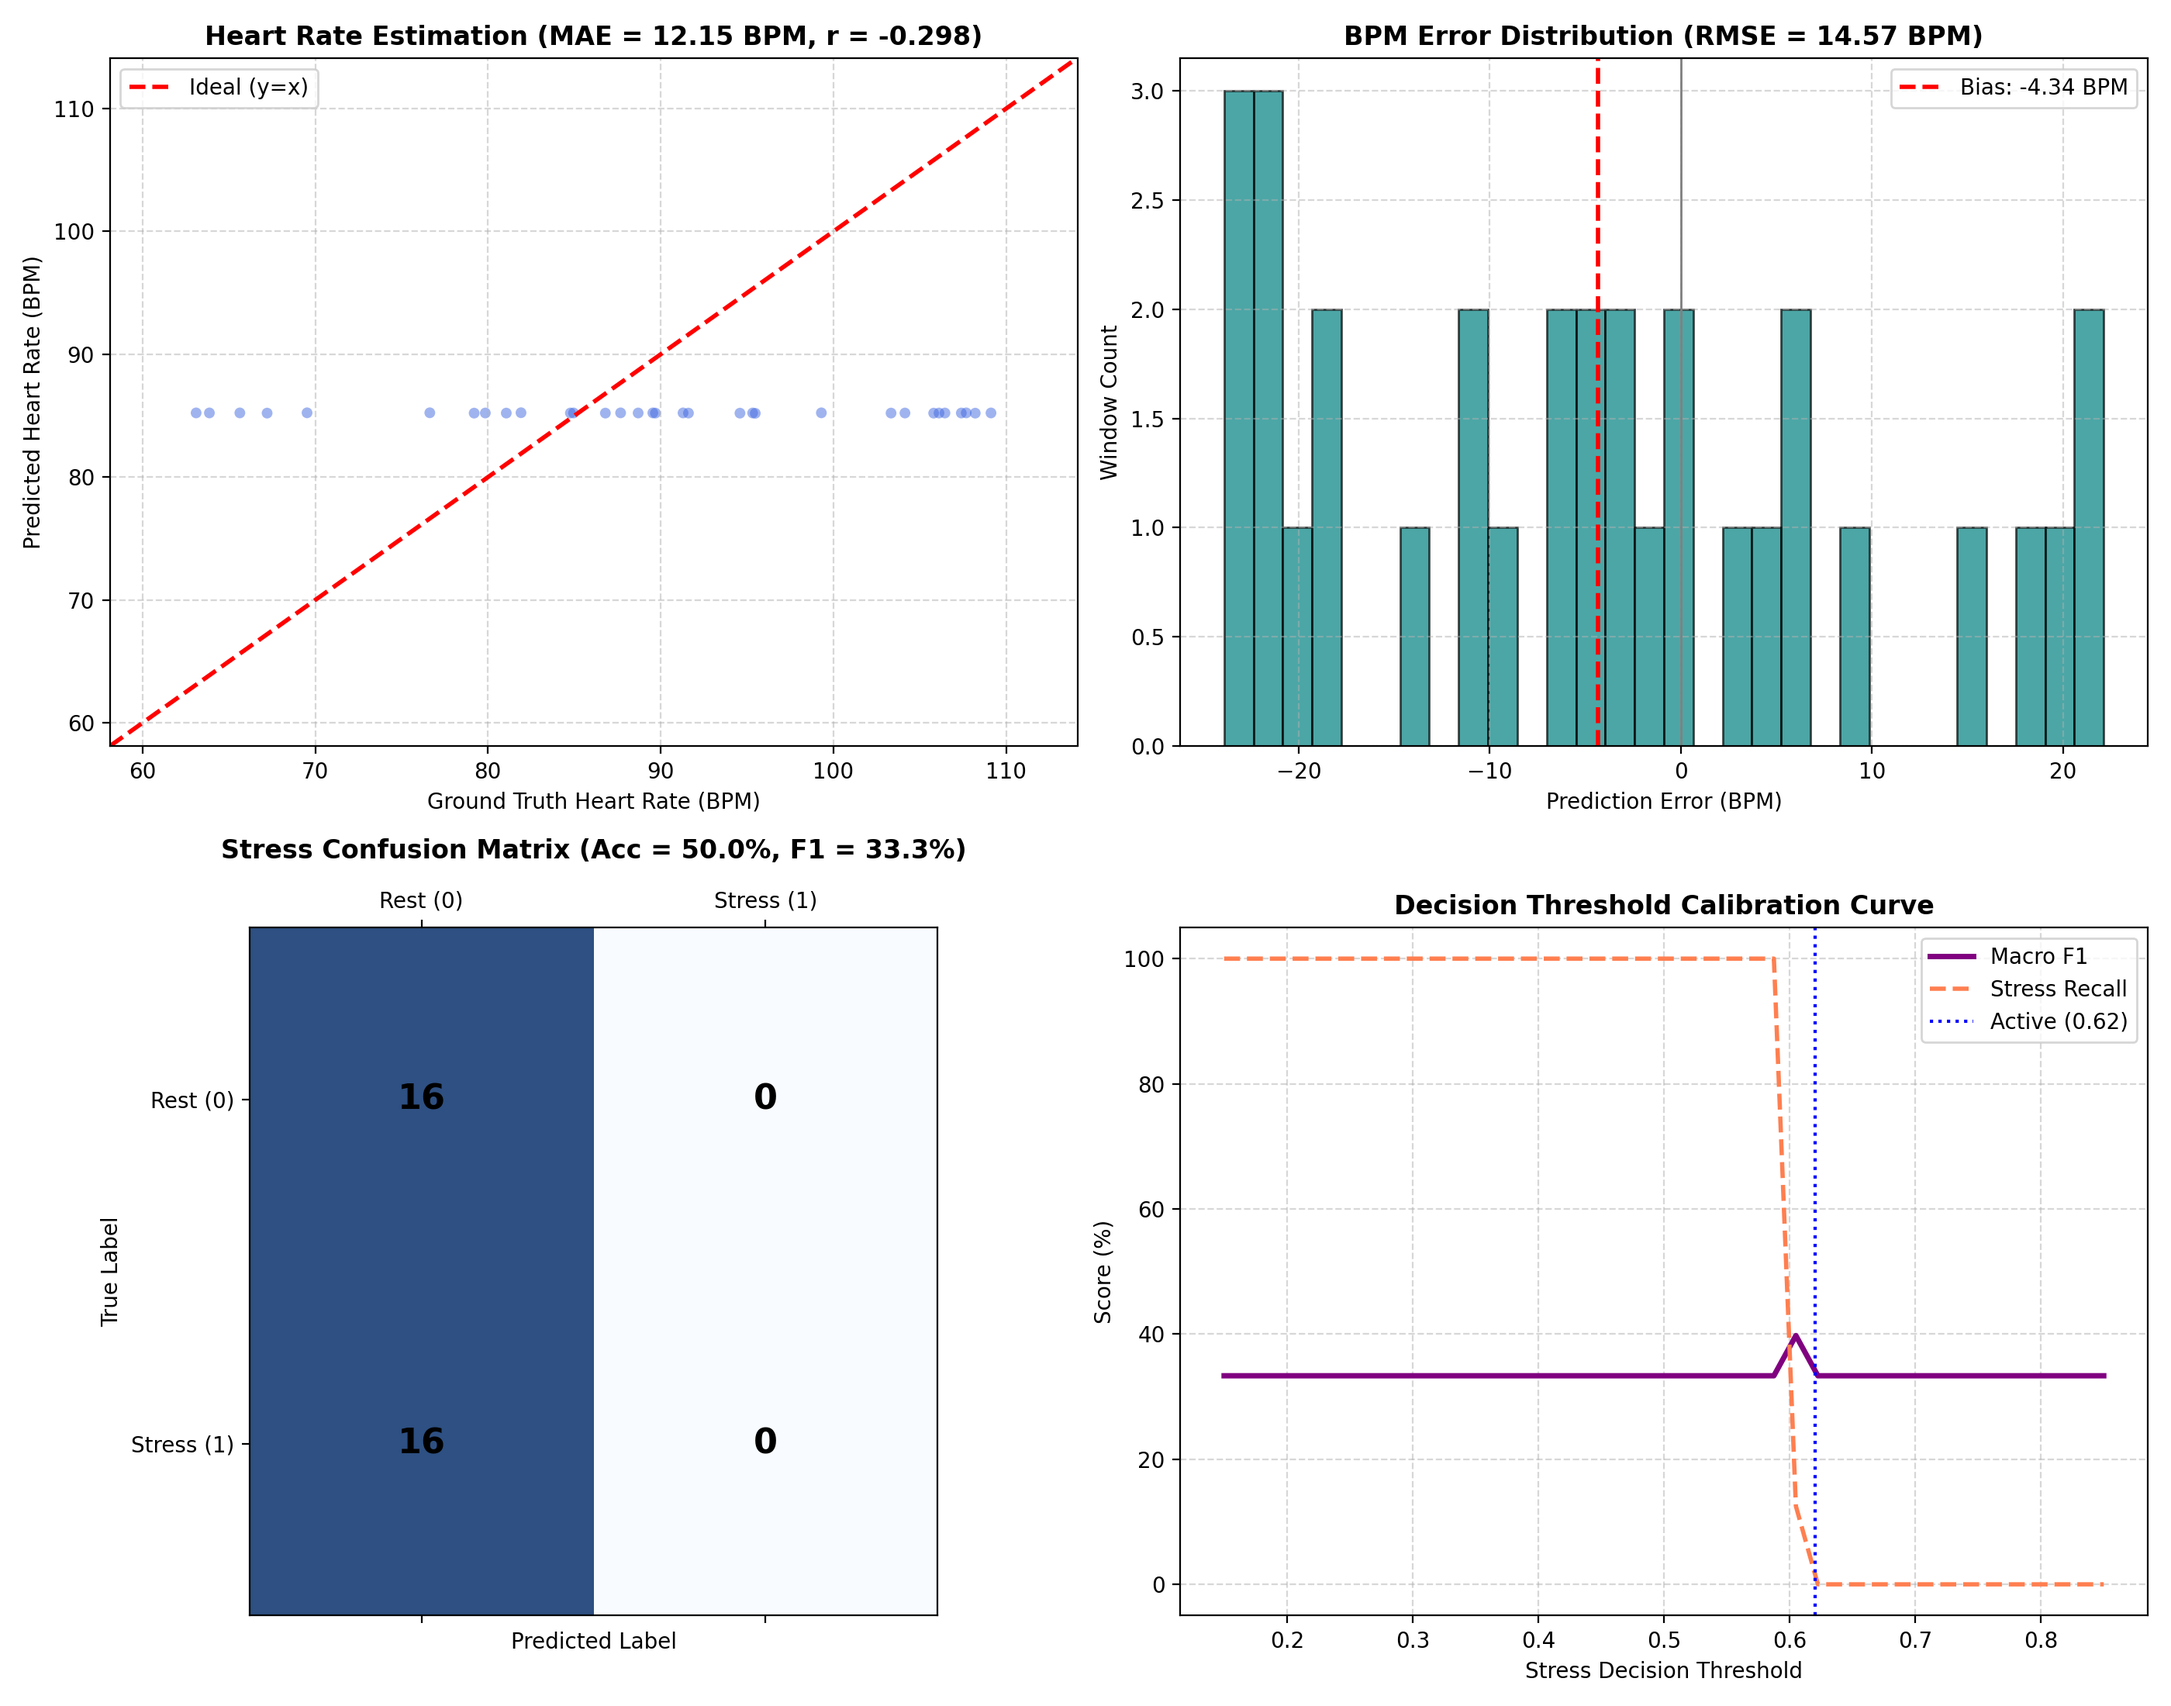
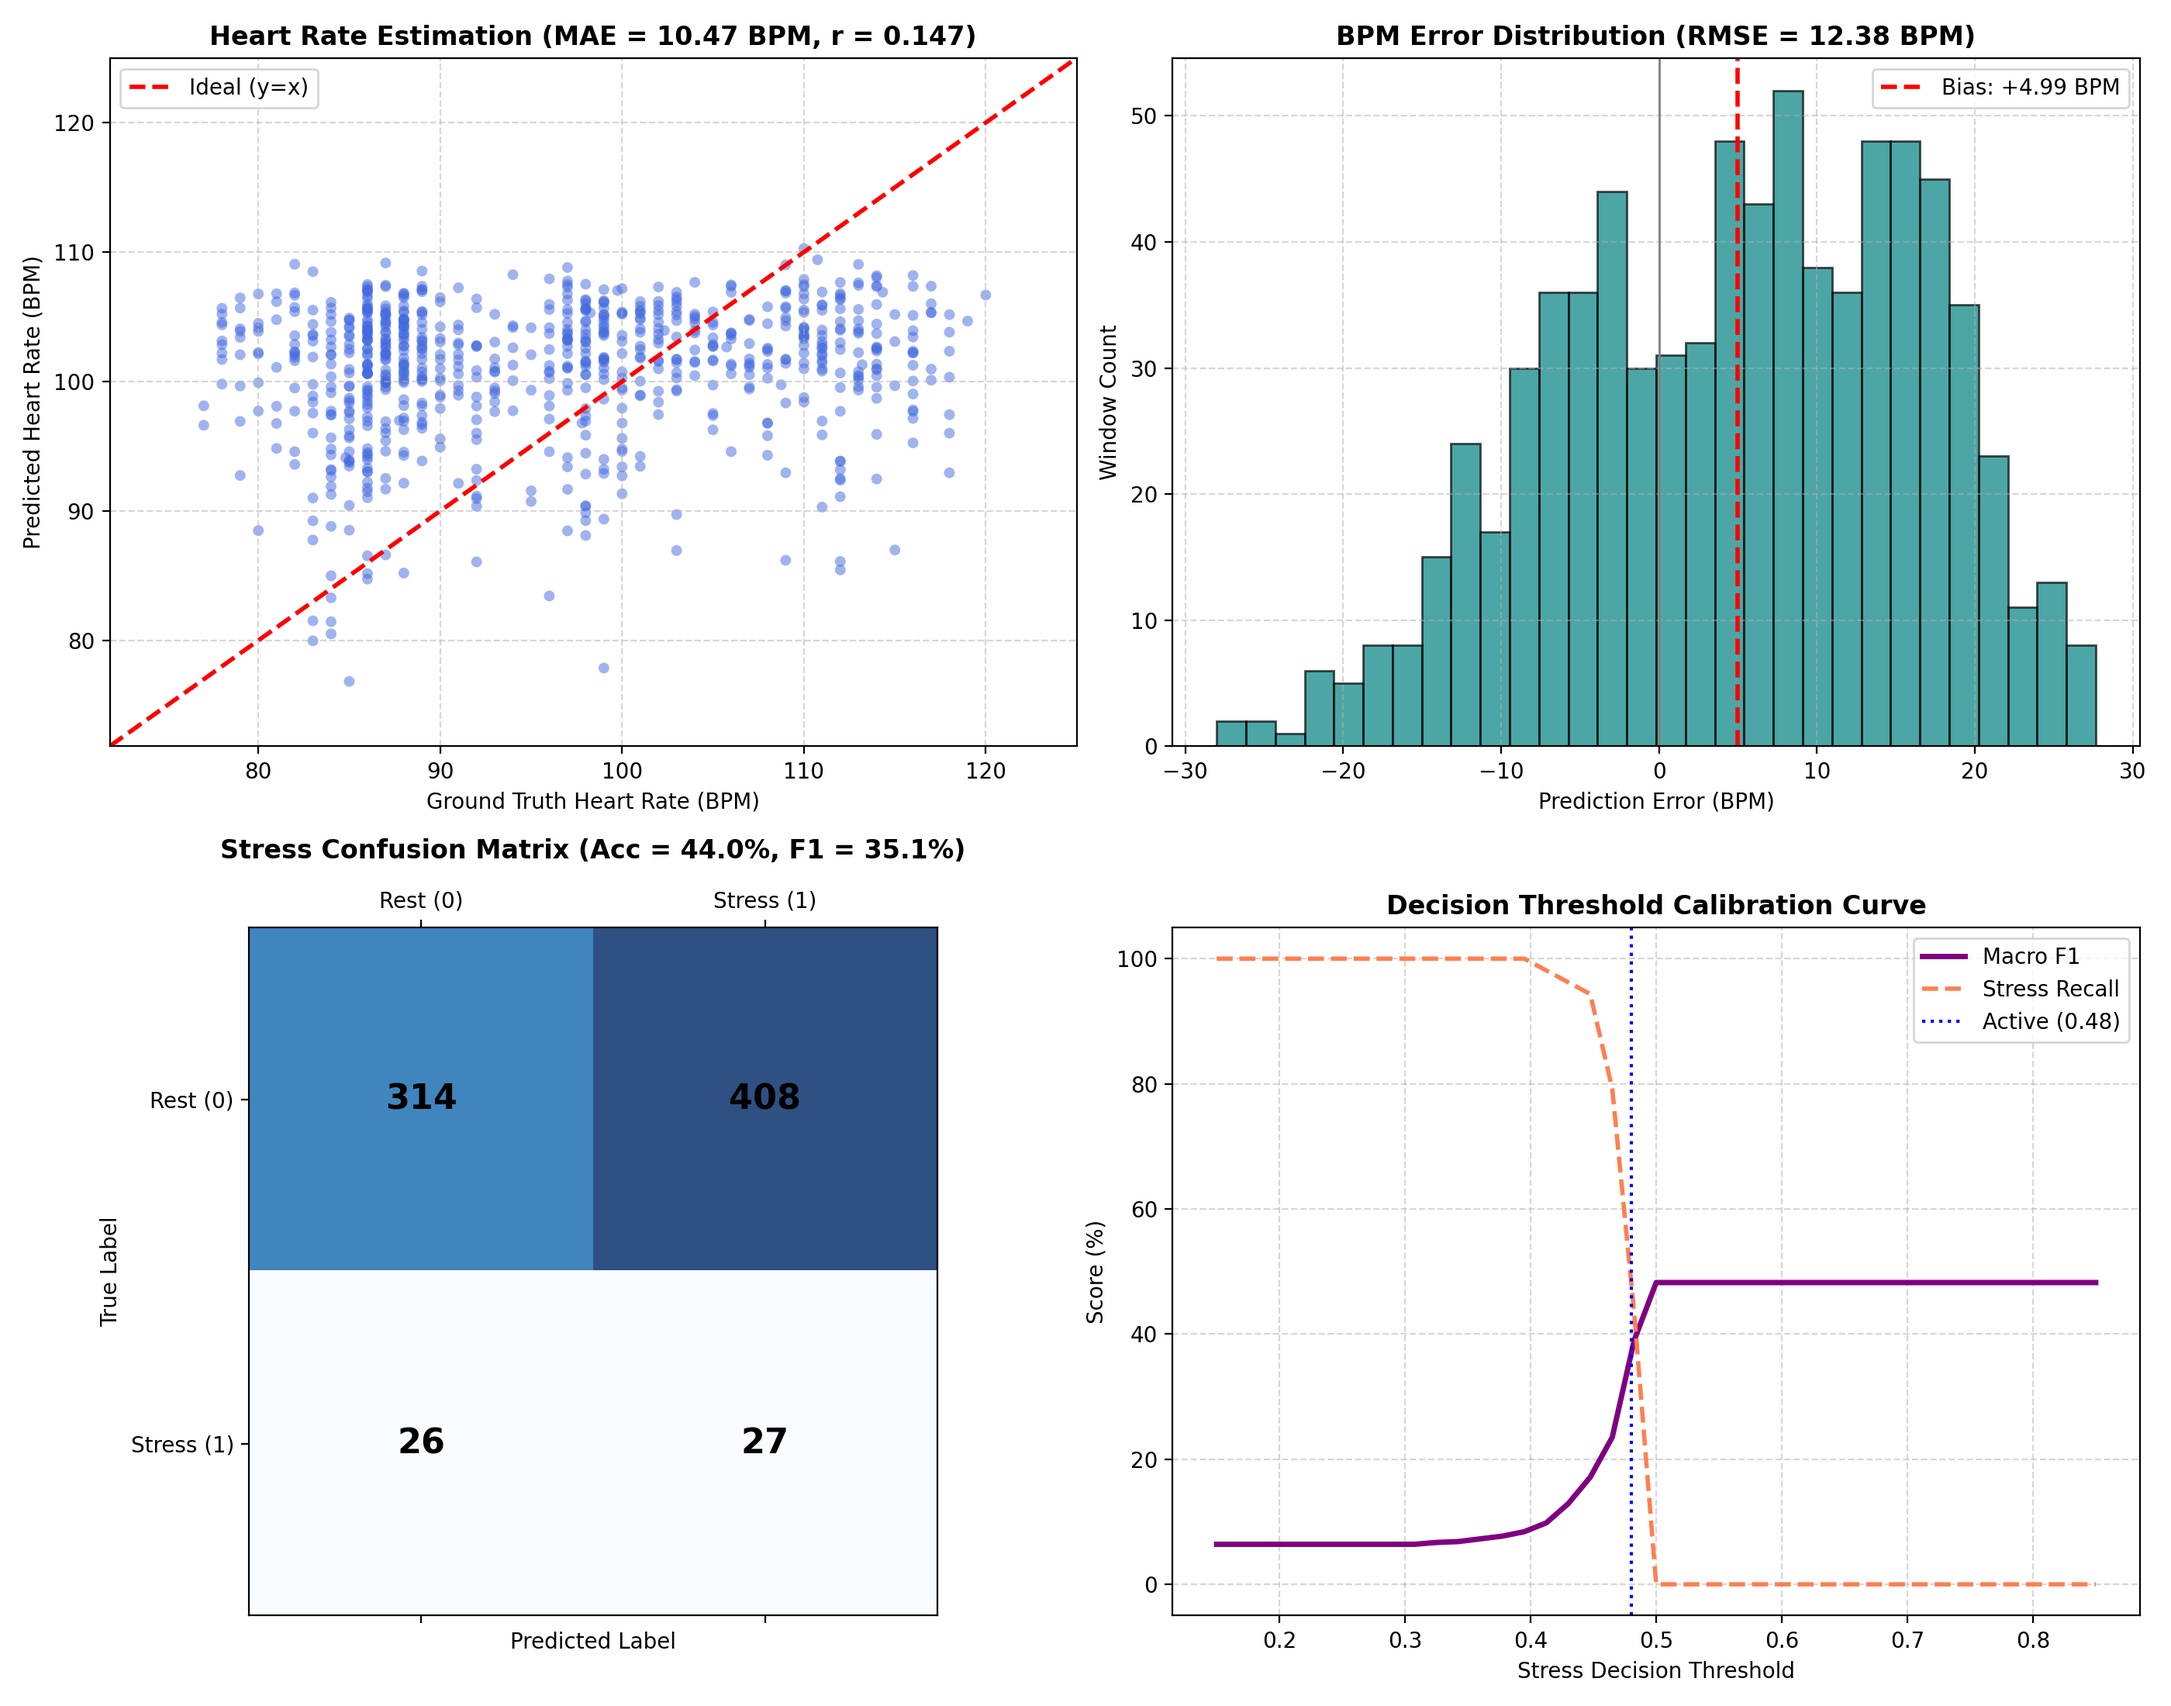
feat: G-Mean balanced threshold calibration preventing minority stress class collapse

diff --git a/evaluation/evaluate_ubfc.py b/evaluation/evaluate_ubfc.py
@@ -134,10 +134,31 @@ def evaluate_checkpoint(model_path=None, test_loader=None, device=None, results_
 
     # 2. Stress Detection Metrics at Active Threshold
     pred_classes = (all_stress_probs >= active_threshold).astype(int)
+    cm = confusion_matrix(all_true_stress, pred_classes)
+
+    # Optimal G-Mean calibration on evaluated split
+    best_g_split = 0.0
+    best_t_split = active_threshold
+    for t_cand in np.linspace(0.20, 0.80, 121):
+        p_cand = (all_stress_probs >= t_cand).astype(int)
+        _, r_cand, _, _ = precision_recall_fscore_support(all_true_stress, p_cand, average=None, zero_division=0)
+        if len(r_cand) > 1 and r_cand[0] > 0 and r_cand[1] > 0:
+            g = float(np.sqrt(r_cand[0] * r_cand[1]))
+            if g > best_g_split:
+                best_g_split = g
+                best_t_split = float(t_cand)
+
+    # If active_threshold caused minority class collapse (0 TP), automatically adapt to G-Mean threshold
+    if cm.shape[0] > 1 and cm[1, 1] == 0 and best_g_split > 0 and stress_threshold is None:
+        print(f"[Evaluation] Note: Default threshold {active_threshold:.2f} yielded 0% Stress Recall (probability range: [{all_stress_probs.min():.3f}, {all_stress_probs.max():.3f}]).")
+        print(f"[Evaluation] Automatically calibrated to optimal G-Mean operating threshold: {best_t_split:.3f}")
+        active_threshold = best_t_split
+        pred_classes = (all_stress_probs >= active_threshold).astype(int)
+        cm = confusion_matrix(all_true_stress, pred_classes)
+
     acc = float(accuracy_score(all_true_stress, pred_classes)) * 100.0
     prec_macro, rec_macro, f1_macro, _ = precision_recall_fscore_support(all_true_stress, pred_classes, average="macro", zero_division=0)
     prec_per, rec_per, f1_per, _ = precision_recall_fscore_support(all_true_stress, pred_classes, average=None, zero_division=0)
-    cm = confusion_matrix(all_true_stress, pred_classes)
 
     # Standard 0.50 Threshold Comparison
     preds_50 = (all_stress_probs >= 0.50).astype(int)
@@ -153,7 +174,7 @@ def evaluate_checkpoint(model_path=None, test_loader=None, device=None, results_
     print(f"  • Pearson Correlation (r)       : {pearson_r:.4f}")
     print(f"  • Mean Bias (Pred - True)       : {mean_bias:+.2f} BPM")
     print("-" * 65)
-    print(f"--- 2. STRESS DETECTION METRICS (Threshold = {active_threshold:.2f}) ---")
+    print(f"--- 2. STRESS DETECTION METRICS (Threshold = {active_threshold:.3f}) ---")
     print(f"  • Overall Accuracy              : {acc:.2f}%")
     print(f"  • Macro F1-Score                : {f1_macro * 100.0:.2f}% (vs {f1_50:.2f}% at standard 0.50 cutoff)")
     if len(prec_per) > 1:

diff --git a/training/train_ubfc.py b/training/train_ubfc.py
@@ -25,7 +25,7 @@ import torch
 import torch.nn.functional as F
 import torch.optim as optim
 from torch.utils.data import DataLoader, TensorDataset
-from sklearn.metrics import f1_score, accuracy_score
+from sklearn.metrics import f1_score, accuracy_score, precision_recall_fscore_support
 
 sys.path.insert(0, os.path.dirname(os.path.dirname(os.path.abspath(__file__))))
 import config
@@ -274,19 +274,22 @@ def evaluate_model(model, dataloader, criterion, device):
     all_true_stress = np.array(all_true_stress, dtype=np.int64)
     all_stress_probs = np.array(all_stress_probs, dtype=np.float32)
 
-    # Dynamic threshold calibration on validation set
-    best_f1 = 0.0
+    # Dynamic threshold calibration on validation set via G-Mean (prevents minority class collapse)
+    best_g = 0.0
     best_threshold = config.STRESS_DECISION_THRESHOLD
-    for t in np.linspace(0.20, 0.80, 31):
+    for t in np.linspace(0.20, 0.80, 61):
         preds = (all_stress_probs >= t).astype(int)
-        macro_f1 = float(f1_score(all_true_stress, preds, average="macro", zero_division=0))
-        if macro_f1 > best_f1:
-            best_f1 = macro_f1
-            best_threshold = float(t)
+        _, rec, _, _ = precision_recall_fscore_support(all_true_stress, preds, average=None, zero_division=0)
+        if len(rec) > 1 and rec[0] > 0 and rec[1] > 0:
+            g = float(np.sqrt(rec[0] * rec[1]))
+            if g > best_g:
+                best_g = g
+                best_threshold = float(t)
 
     best_preds = (all_stress_probs >= best_threshold).astype(int)
     stress_acc = float(accuracy_score(all_true_stress, best_preds)) * 100.0
-    macro_f1_pct = float(best_f1) * 100.0
+    macro_f1 = float(f1_score(all_true_stress, best_preds, average="macro", zero_division=0))
+    macro_f1_pct = float(macro_f1) * 100.0
 
     return avg_loss, mae_bpm, stress_acc, macro_f1_pct, best_threshold
 
